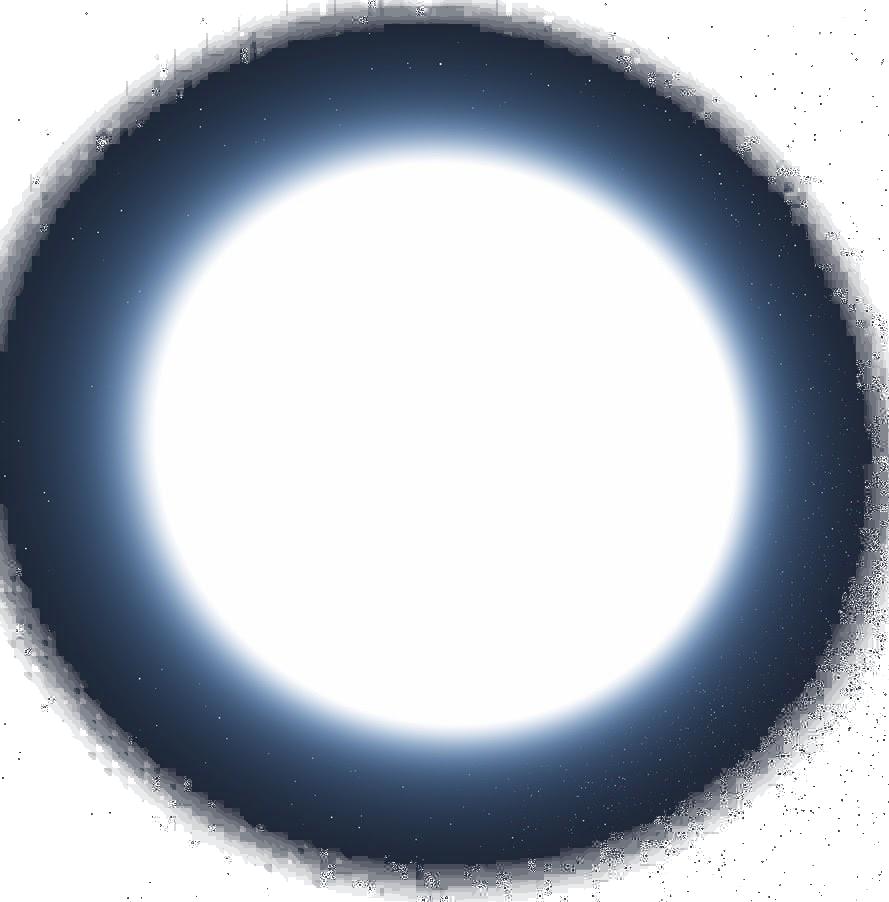
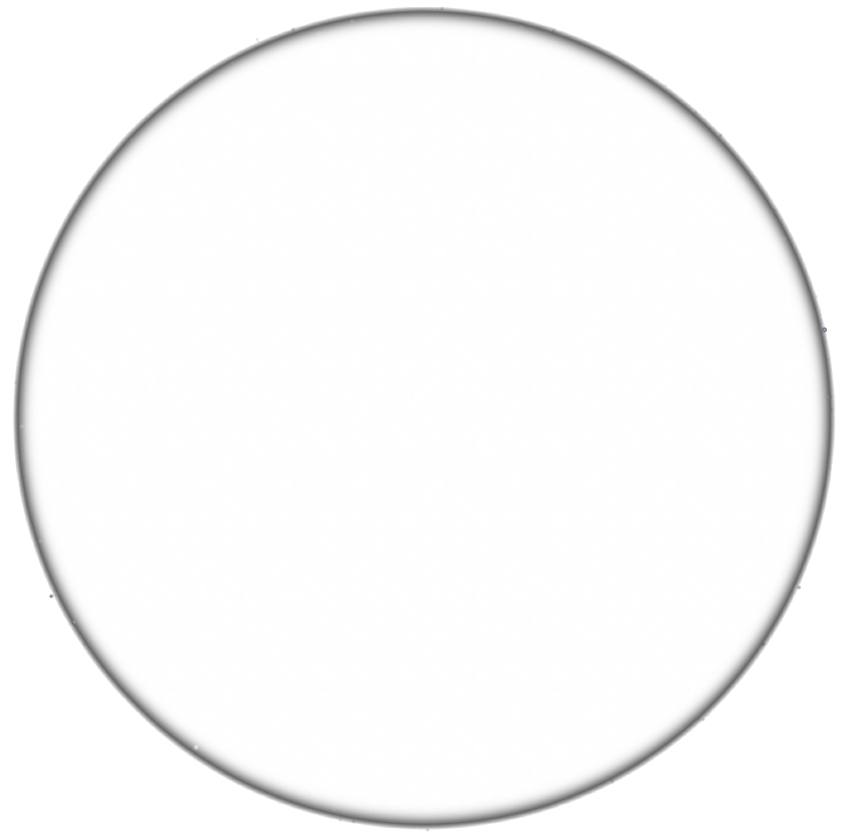
Visualization changes.

diff --git a/js/planetary-system-visualization.js b/js/planetary-system-visualization.js
@@ -18,6 +18,7 @@ window.planetarySystemVisualization = (function () {
      */
     function renderStellarGroups(target, data, context) {
         var vis = jQuery(target);
+        var breadcrumbContainer = vis.siblings("nav").find("div.nav-wrapper > div.col");
 
         // Cleanup
         jQuery("div.material-tooltip").remove();
@@ -29,10 +30,13 @@ window.planetarySystemVisualization = (function () {
             };
 
             // System View Label
-            vis.empty()
-                .append(jQuery("<div/>")
-                .attr("class", "view-title")
-                .text("System View"));
+            vis.empty();
+            breadcrumbContainer.empty()
+                .append(jQuery("<a/>")
+                .attr("href", "#!")
+                .attr("class", "breadcrumb")
+                .text(data.name)
+                .click(function(){ renderStellarGroups(target, data); }));
         }
 
         data.starGroup.forEach((group, i) => {
@@ -47,6 +51,7 @@ window.planetarySystemVisualization = (function () {
      */
     function renderStellarGroup(target, group, context) {
         var vis = jQuery(target);
+        var breadcrumbContainer = vis.siblings("nav").find("div.nav-wrapper > div.col");
 
         // Set Defaults
         if(typeof context === "undefined") {
@@ -58,10 +63,12 @@ window.planetarySystemVisualization = (function () {
             // Cleanup
             jQuery("div.material-tooltip").remove();
 
-            vis.empty()
-                .append(jQuery("<div/>")
-                .attr("class", "view-title")
-                .text("Stellar Group View"));
+            vis.empty();
+            breadcrumbContainer.append(jQuery("<a/>")
+                .attr("href", "#!")
+                .attr("class", "breadcrumb")
+                .text(group.name)
+                .click(function(){ renderStellarGroups(target, group, context); }));
         }
 
         // Group Visualization Here
@@ -79,7 +86,7 @@ window.planetarySystemVisualization = (function () {
                 .text(group.name)
                 .click(function() {
                     var groupName = jQuery(this).attr("data-name");
-                    var group = planetarySystemGenerator.data.planetarySystem.starGroup.filter(function(gr) { return gr.name == groupName; })
+                    var group = planetarySystem.starGroup.filter(function(gr) { return gr.name == groupName; })
 
                     planetarySystemVisualization.renderStellarGroup(target, group[0]);
                 });
@@ -111,7 +118,7 @@ window.planetarySystemVisualization = (function () {
                     .width(dim)
                     .click(function() {
                         var starName = jQuery(this).attr("data-name");
-                        var star = planetarySystemGenerator.data.planetarySystem.stars.filter(function(st) { return st.name == starName; })
+                        var star = planetarySystem.stars.filter(function(st) { return st.name == starName; })
 
                         planetarySystemVisualization.renderPlanetarySystem(target, star[0]);
                     });
@@ -141,6 +148,8 @@ window.planetarySystemVisualization = (function () {
      */
     function renderPlanetarySystem(target, star) {
         var vis = jQuery(target);
+        var breadcrumbContainer = vis.siblings("nav").find("div.nav-wrapper > div.col");
+
         var planetRadiusMax = getLargestPlanetRadius(star.planets);
         var planetarySystemScale = 1;
 
@@ -150,10 +159,12 @@ window.planetarySystemVisualization = (function () {
         // Cleanup
         jQuery("div.material-tooltip").remove();
 
-        vis.empty()
-            .append(jQuery("<div/>")
-            .attr("class", "view-title")
-            .text("Planetary System View"));
+        vis.empty();
+        breadcrumbContainer.append(jQuery("<a/>")
+            .attr("href", "#!")
+            .attr("class", "breadcrumb")
+            .text(star.name)
+            .click(function(){ renderPlanetarySystem(target, star); }));
 
         var starLabel = jQuery("<div/>")
                 .attr("class", "star-label cursor")
@@ -198,7 +209,7 @@ window.planetarySystemVisualization = (function () {
                 .attr("class", "tooltipped planet cursor")
                 .attr("src", "./" + planet.image)
                 .attr("data-position", "bottom")
-                .attr("data-tooltip", planet.name + " (" + planet.className + ")")
+                .attr("data-tooltip", planet.name + ((!planet.className) ? "" : " (" + planet.className + ")"))
                 .css("transform", "rotate(" + ((typeof planet.axialTilt === "undefined") ? 0 : planet.axialTilt.value) + "deg)")
                 .css("margin-bottom", bottomOffset)
                 .height(dim)

diff --git a/index.html b/index.html
@@ -62,9 +62,22 @@
         </h3>
     </div>
 
+    <!-- Instructions -->
+    <div class="container instructions white-text">
+        <div class="bold">Instructions:</div>
+        <div>Click the Roll(<i class="material-icons tiny">casino</i>) button in the top-right corner of the window next to the menu. This will generate a random star system. Click the stars/planets to get more information.</div>
+    </div>
+
     <!-- Visualization Container -->
-    <div class="visualization-container">
-        <a id="visRefreshButton" class="btn-floating btn blue waves-effect waves-light float-right hidden"><i class="material-icons">arrow_back</i></a>
+    <div class="visualization-container hidden">
+        <nav class="grey darken-4">
+            <div class="nav-wrapper">
+                <div class="col s12">
+                    <a href="#!" class="breadcrumb">Star System</a>
+                </div>
+            </div>
+        </nav>
+        <!-- <a id="visRefreshButton" class="btn-floating btn blue waves-effect waves-light float-right hidden"><i class="material-icons">arrow_back</i></a> -->
         <div id="systemVis"></div>
     </div>
 

diff --git a/js/planetary-system-generator.js b/js/planetary-system-generator.js
@@ -84,7 +84,7 @@ window.planetarySystemGenerator = (function () {
         "planet.class.p": ["ClassP_01.png", "ClassP_02.png", "ClassP_03.png", "ClassP_04.png", "ClassP_05.png", "ClassP_06.png", "ClassP_07.png", "ClassP_08.png", "RClassP1.png", "RClassP2.png"],
         "planet.class.q": ["ClassQ_02.png", "ClassQ_03.png", "ClassQ_04.png", "ClassQ_05.png", "ClassQ_06.png", "RClassQ1.png"],
         "planet.class.r": ["ClassR_01.png", "ClassR_02.png", "ClassR_03.png", "ClassR_04.png", "ClassR_05.png", "RClassR1.png"],
-        "planet.class.s": ["ClassS_01.png", "ClassS_02.png", "ClassS_03.png", "ClassS_04.png", "ClassS_05.png", "RClassS1.png", "RClassS2.png"],
+        "planet.class.s": ["ClassS_01.png", "ClassS_03.png", "ClassS_04.png", "ClassS_05.png", "RClassS1.png"],
         "planet.class.t": [],
         "planet.class.u": ["ClassU_01.png", "ClassU_02.png", "ClassU_03.png", "ClassU_04.png", "ClassU_05.png"],
         "planet.class.x": ["ClassX_01.png", "ClassX_02.png", "ClassX_03.png", "ClassX_04.png", "RClassX1.png", "RClassX2.png"],

diff --git a/js/planetary-system-generator-page.js b/js/planetary-system-generator-page.js
@@ -34,6 +34,9 @@ function handleRoll(event) {
     planetarySystem = planetarySystemGenerator.generateSystem();
 
     renderAll();
+
+    // Hide Instructions
+    jQuery("div.container.instructions").addClass("hidden");
 }
 
 /*
@@ -60,9 +63,9 @@ function renderAll() {
 
     planetarySystemVisualization.renderStellarGroups("#systemVis", planetarySystem);
 
-    jQuery("#visRefreshButton").removeClass("hidden");
+    jQuery("#visRefreshButton,div.visualization-container").removeClass("hidden");
 
-    outputData();
+    //outputData();
 }
 
 /*

diff --git a/css/planetary-system-generator.css b/css/planetary-system-generator.css
@@ -20,9 +20,23 @@ body > div.header > h3 > a.roll-button {
 .italic { font-style: italic; }
 .float-right { float: right; }
 
+div.container.site-info {
+    margin-top: 60px;
+}
+
 /* Visualization */
 div.visualization-container {
     margin: 0px 40px 20px 40px;
+}
+
+div.visualization-container nav,
+div.visualization-container div.nav-wrapper {
+    line-height: 2em;
+    height: 2em;
+}
+
+div.visualization-container nav {
+    padding: 0px 4px 0px 4px;
 }
 
 .group-label,
